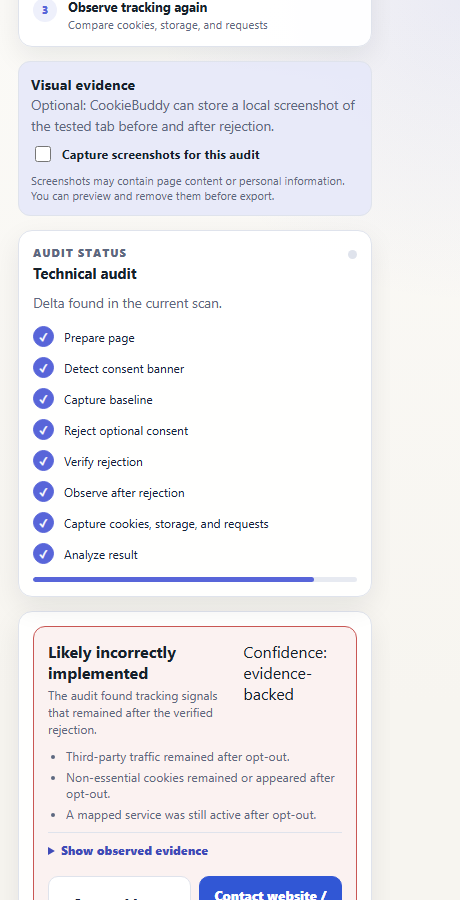
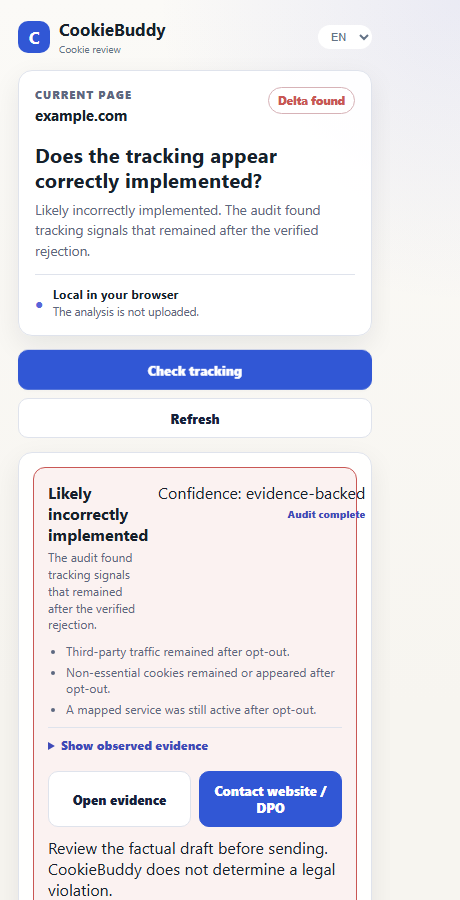
fix: lead popup with verdict and audit completeness
Closes #57

diff --git a/popup.html b/popup.html
@@ -47,6 +47,18 @@
         </div>
       </section>
 
+      <div class="audit-primary-actions">
+        <button id="deltaButton" class="primary-button audit-primary-button" type="button" data-i18n="runAuditButton">Tracking prüfen</button>
+        <button id="heroScanButton" class="ghost-button audit-secondary-button" type="button" data-i18n="refreshButton">Seite neu erfassen</button>
+      </div>
+
+      <section id="deltaResult" class="audit-result" aria-live="polite" aria-atomic="false">
+        <div class="audit-empty-result">
+          <strong data-i18n="auditNoResult">Noch kein Ergebnis</strong>
+          <p data-i18n="auditNoResultDetail">Starte die Prüfung. Technische Details werden erst nach dem Ergebnis eingeblendet.</p>
+        </div>
+      </section>
+
       <section class="audit-explainer" aria-labelledby="auditExplainerHeading">
         <h2 id="auditExplainerHeading" data-i18n="auditWhatIsChecked">Was wird geprüft?</h2>
         <ol class="audit-steps-preview">
@@ -90,17 +102,6 @@
         <div class="audit-progress-track" aria-hidden="true"><span id="auditProgressBar"></span></div>
       </section>
 
-      <section id="deltaResult" class="audit-result" aria-live="polite" aria-atomic="false">
-        <div class="audit-empty-result">
-          <strong data-i18n="auditNoResult">Noch kein Ergebnis</strong>
-          <p data-i18n="auditNoResultDetail">Starte die Prüfung. Technische Details werden erst nach dem Ergebnis eingeblendet.</p>
-        </div>
-      </section>
-
-      <div class="audit-primary-actions">
-        <button id="deltaButton" class="primary-button audit-primary-button" type="button" data-i18n="runAuditButton">Tracking prüfen</button>
-        <button id="heroScanButton" class="ghost-button audit-secondary-button" type="button" data-i18n="refreshButton">Seite neu erfassen</button>
-      </div>
       <p class="cb-disclaimer" data-i18n="legalDisclaimer">CookieBuddy liefert technische Review-Signale – keine rechtliche Bewertung.</p>
       <span class="cb-support-copy" data-i18n="supportPrompt">Support CookieBuddy</span>
       <span class="sr-only" data-i18n="supportDescription">Support development with a coffee</span>

diff --git a/src/popup.js b/src/popup.js
@@ -655,7 +655,8 @@ function renderAuditVerdict(delta, verdict) {
     "audit-lifecycle": t("auditCoverageLifecycle"),
     "no-contradictory-evidence": t("auditReasonNoContradiction")
   };
-  const reasons = (verdict.reasons || []).map((reason) => `<li>${escapeHtml(reasonLabels[reason] || reason)}</li>`).join("");
+  const reasons = (verdict.reasons || []).slice(0, 3).map((reason) => `<li>${escapeHtml(reasonLabels[reason] || reason)}</li>`).join("");
+  const complete = verdict.coverage?.complete === true;
   const cookieCount = (delta.remainingCookies?.length || 0) + (delta.newCookies?.length || 0);
   const dpoEmail = state.analysis?.contacts?.dpo?.email || "";
   const complaintBody = dpoEmail ? buildMailBody("access", delta) : "";
@@ -673,7 +674,10 @@ function renderAuditVerdict(delta, verdict) {
           <h2>${escapeHtml(meta.title)}</h2>
           <p>${escapeHtml(meta.copy)}</p>
         </div>
-        <span class="audit-confidence">${escapeHtml(t("auditConfidence", verdict.confidence))}</span>
+        <div class="audit-verdict-meta">
+          <span class="audit-confidence">${escapeHtml(t("auditConfidence", verdict.confidence))}</span>
+          <span class="audit-completeness" data-complete="${complete}">${escapeHtml(t(complete ? "auditCompletenessComplete" : "auditCompletenessIncomplete"))}</span>
+        </div>
       </div>
       <ul class="audit-reason-list">${reasons}</ul>
       <details class="audit-evidence">

diff --git a/src/audit-flow.css b/src/audit-flow.css
@@ -53,6 +53,10 @@
 .audit-verdict-heading { display: flex; align-items: flex-start; justify-content: space-between; gap: 10px; }
 .audit-verdict-heading h2 { margin: 0; font-size: 1rem; }
 .audit-verdict-heading p { margin: 4px 0 0; color: var(--muted); font-size: .75rem; line-height: 1.4; }
+.audit-verdict-meta { display: grid; justify-items: end; gap: 4px; flex: 0 0 auto; }
+.audit-completeness { color: var(--muted); font-size: .64rem; font-weight: 800; text-align: right; }
+.audit-completeness[data-complete="false"] { color: #a15c00; }
+.audit-completeness[data-complete="true"] { color: var(--accent-strong); }
 .audit-reason-list { display: grid; gap: 5px; margin: 0; padding-left: 18px; color: var(--muted); font-size: .76rem; }
 .audit-evidence { border-top: 1px solid var(--line); padding-top: 9px; }
 .audit-evidence summary { cursor: pointer; color: var(--accent-strong); font-size: .76rem; font-weight: 800; }

diff --git a/README.md b/README.md
@@ -63,7 +63,7 @@ The source of truth for product acceptance behavior is [`features/cookiebuddy.fe
 | UC-19 | Minimize sensitive URL data at capture time; exclude query values and fragments by default. |
 | UC-20 | Optionally capture user-controlled visual evidence with preview/removal before export. Screenshots are off by default, limited to the tested active tab, linked to audit steps, and recorded as unavailable when browser permissions prevent capture. |
 | UC-21 | Prepare a factual complaint/escalation draft using only evidence actually present in the audit. |
-| UC-22 | Present the one-click verdict before technical metrics and expose evidence progressively. |
+| UC-22 | Present the one-click verdict and audit completeness before technical metrics, with one to three plain-language reasons and progressive evidence. |
 | UC-23 | Support multilingual/accessibility-aware consent controls safely without broad-text false clicks. Consent vocabulary is local, explicit, and extended through locale data; accessible names and roles are used for icon-only controls, while unsupported language stays unresolved. |
 | UC-24 | Explain limits for fingerprinting, server-side tagging, backend enrichment, first-party proxies, and other opaque techniques. |
 | UC-25 | Keep CookieBuddy itself private and performant: justified permissions, local processing, deletion, bounded retention and overhead. |
